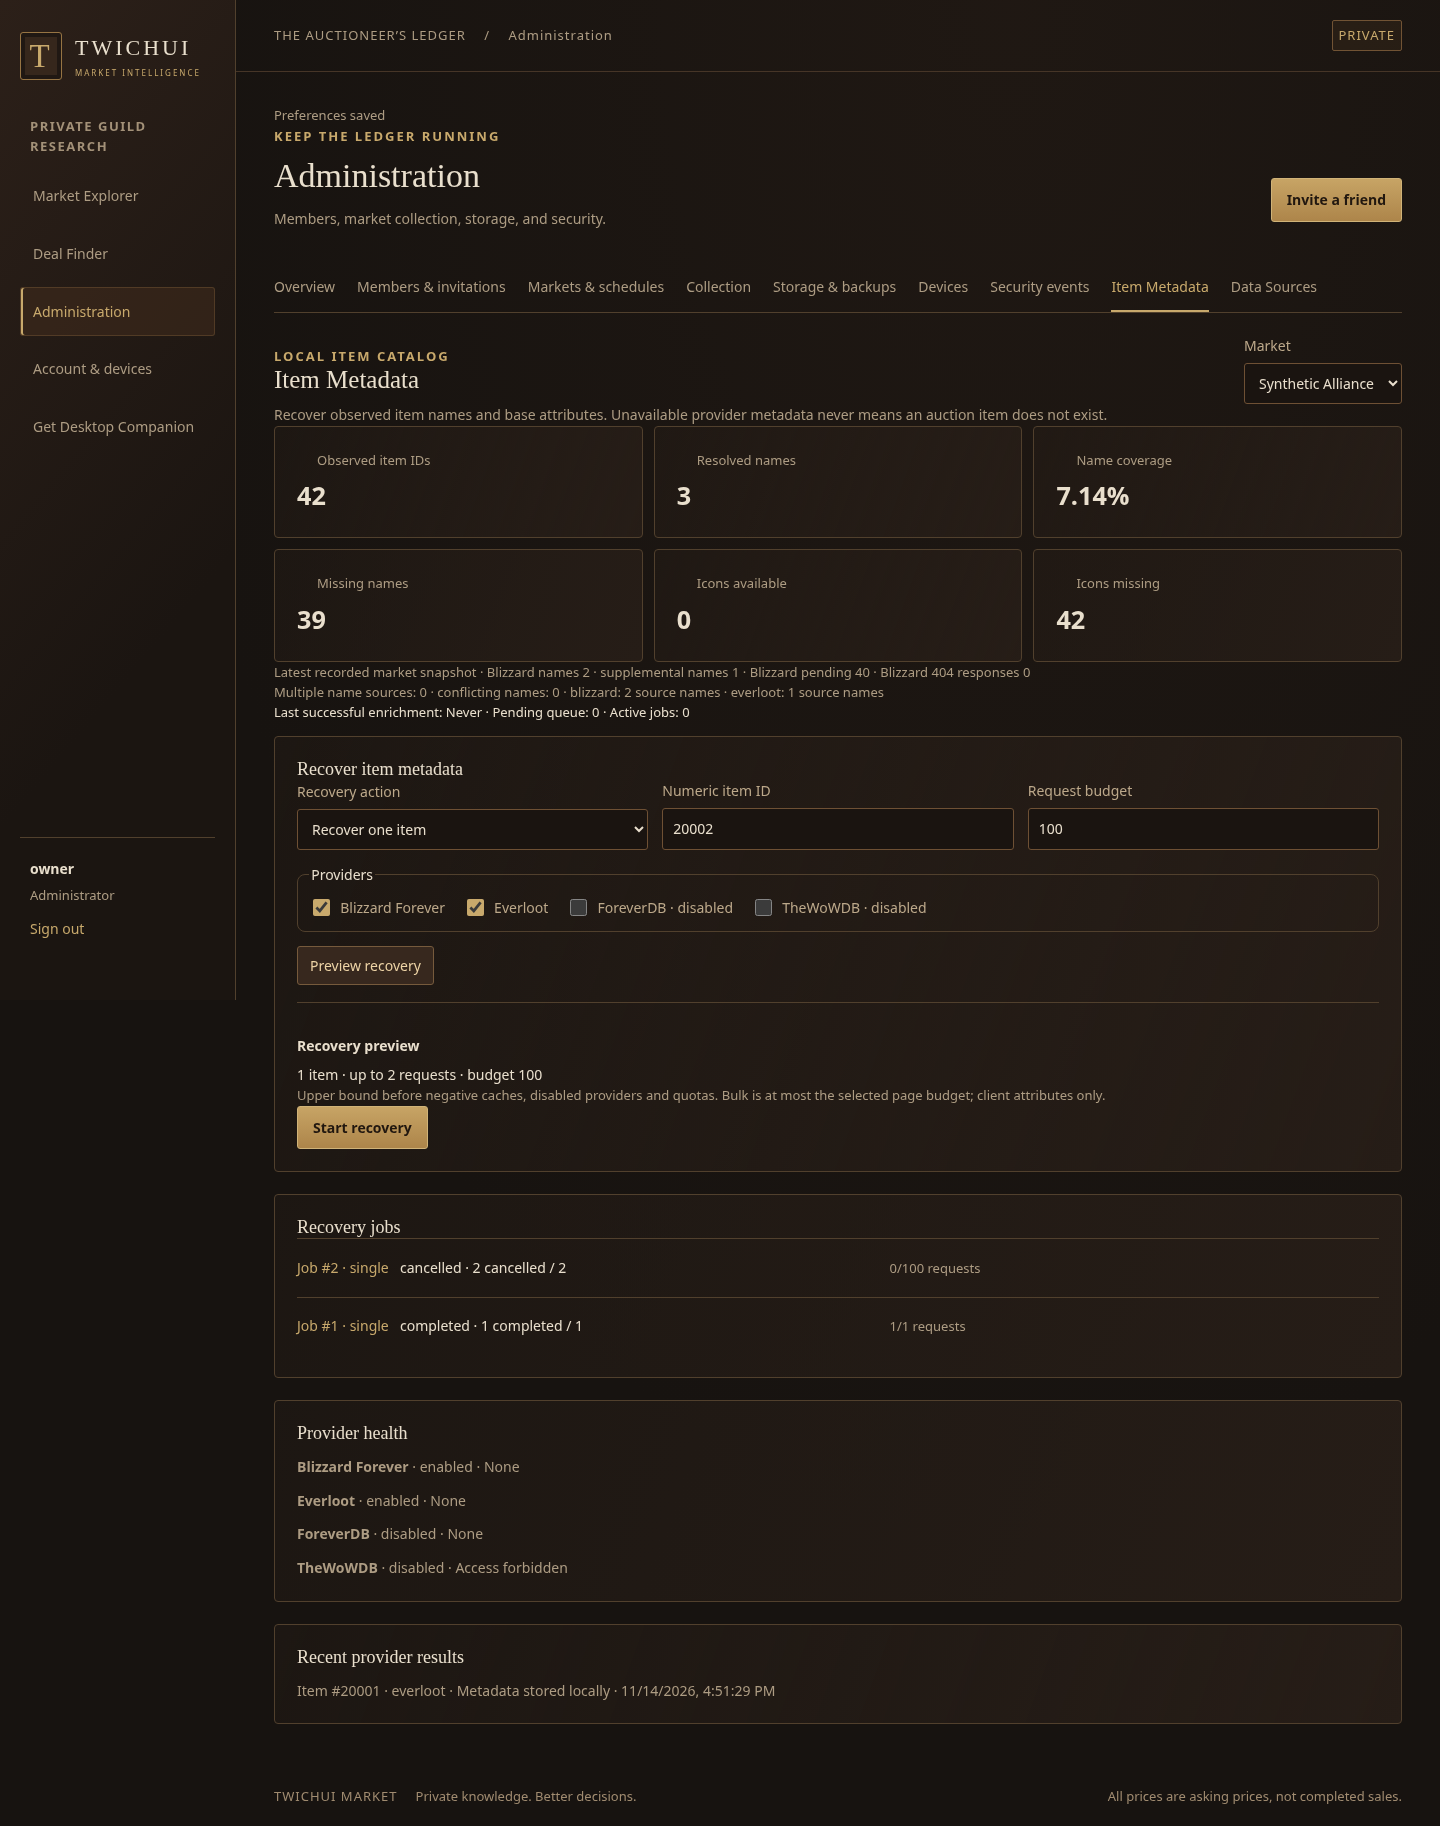
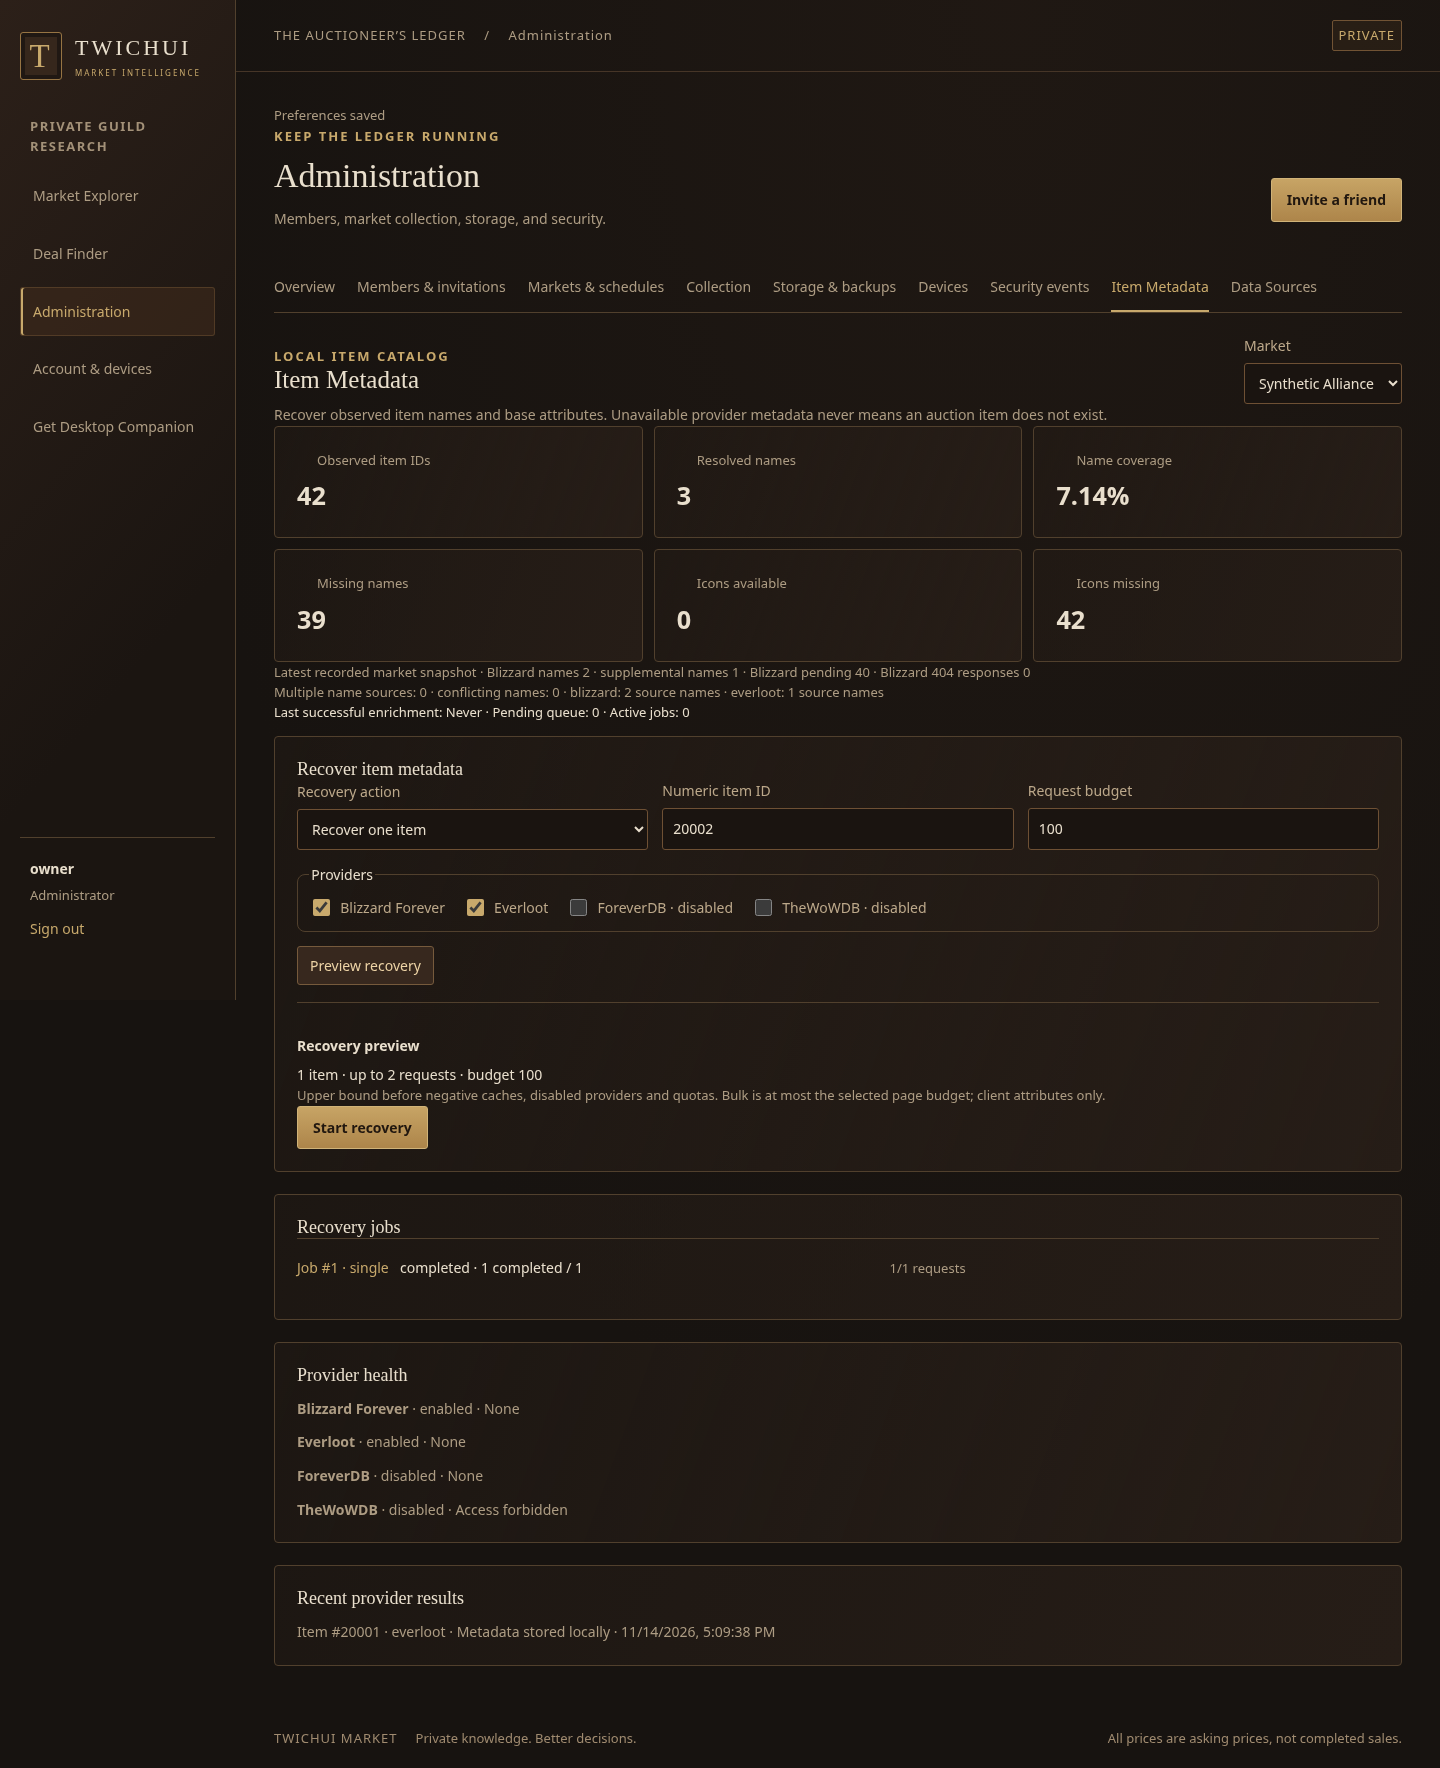
docs: finalize metadata recovery acceptance evidence and external integration gates

diff --git a/docs/item-metadata-recovery-progress.md b/docs/item-metadata-recovery-progress.md
@@ -43,3 +43,37 @@ Companion baseline migration is 0013. Use a metadata-specific revision identifie
 - Rollback-only benchmark: 5,000 observed fixture IDs, 500 client-record import 3.97s (~126/s); five warm handler medians: coverage 28.25ms, name search 9.33ms, Explorer 18.43ms; process peak RSS ~84.4MiB. These are synthetic handler measurements, not production coverage or p95.
 - First full local browser run: 17/20 pass; three failures traced to Docker-only `http://proxy` fixture/context assumptions, not metadata functionality. Bounded loopback opt-in and matching fixture origin are being added; production/browser auth behavior is unchanged.
 - Read-only integration check at `abe299c22639e9d067a2b8f0817ffb578e6e17cc` still has no schema conflicts. A simulated merge found a workflow append conflict; moving the metadata check ahead of the retained Companion check reconciles it on this branch without merging/rebasing or modifying Companion history.
+
+## M4 final independent acceptance — 2026-11-15 UTC (2026-11-14 Denver)
+
+- Functional checkpoint `90bc88f0c56185ce8d4e796b20fe6af32e7ea64b`: **301/301 PostgreSQL tests pass (146.28s)**, including **37 metadata recovery/security cases**. Both populated preservation/downgrade rehearsals pass again. The earlier full run crossed UTC midnight and exposed future-dated 10:00/12:00 sync fixtures; the fixtures now anchor to the prior day without changing product ingestion/pricing/sync behavior.
+- **50/50 frontend unit tests, TypeScript/Vite build, dependency audits and 20/20 actual Chromium workflows pass.** The complete browser run took 1.8 minutes; all metadata/admin/Explorer/Deals/account/preferences/Companion/touch workflows pass together. Earlier preference polling timeout passed focused and final complete reruns.
+- Nine final actual browser screenshots, byte hashes and dimensions are committed under `docs/evidence/metadata-recovery-screenshots`. They show synthetic database data and an empty secret form. Three axe scans and 390px overflow checks pass; no page errors or third-party metadata requests. Visual owner approval remains pending.
+- All providers have queued connection tests. Validated Everloot keys permit an explicit bounded increase up to 240/hour and 2,000/day; keyless ceilings/cooldowns remain enforced. The retained legacy operator command only queues durable jobs. Batch recovery also selects named items without basic attributes. Pending-name measurements do not double-subtract preserved names after a 404 refresh.
+- `144205d` isolates the CI-only keyring initialization from retained shared fixture steps. Direct smoke verifies this initialization creates a private ephemeral keyring without changing database row counts, then restores the previous ephemeral keyring. Source code and tests stay on the pinned baseline; no Desktop source was changed.
+- Final bounded rollback-only fixture: 500 client records / 3.42s (~146/s), 2.04 CPU seconds, 84.7MiB peak process RSS. Five warm handler medians: coverage 33.06ms, name search 16.35ms, Explorer 28.29ms. Same-dependency entry JS size is unchanged; administration grows ~15.3KiB, research ~1.1KiB and CSS ~2.3KiB uncompressed. These are synthetic measurements, never production coverage or p95.
+- Combined simulation evidence remains 299 complete PostgreSQL regressions against committed Companion `abe299c`, then 128 relevant PostgreSQL cases plus 15 operational/release gates against `027765a`. Latest committed head `cad6c8e9bb4ddcab8ae0f7b72f3a73c09f647366` changes private-beta fixtures/UI/workflows, not migration identities or existing security/v1 contract files. A simulated integration tree merges cleanly; no actual branch merge/rebase was performed.
+- Remote backend checkpoint `af0751c` passed run 43655431454; earlier website run 43654540502 passed. Current shared website run 43657170874 passes build/unit/audit/container startup/metadata-keyring setup/main fixtures, then fails because the newly added `web/e2e/seed-private-beta.py` is absent from the pinned head-only checkout. Native/private-beta helper/legacy-installer integration likewise needs the owner-reviewed combined source. This external CI dependency is not reported as passed or worked around by importing unrelated Companion release code. The PR links the final checks.
+
+## Delivery and exact follow-up
+
+[Acceptance packet](item-metadata-recovery-acceptance.md), [source research](item-metadata-recovery-providers.md), [coverage boundary](evidence/metadata-recovery-coverage.json), [operations/backup/migration/rollback](item-metadata-recovery-operations.md), [screenshots](evidence/metadata-recovery-screenshots/README.md) and [draft PR #2](https://github.com/Twich-Team/TwichUI-Market/pull/2) provide the reviewable result. Independent implementation/testing is complete; genuine provider coverage remains unmeasured.
+
+Owner-managed external steps: privately mount/back up the encryption keyring; enter actual provider keys in Data Sources; obtain permitted target-host responses and authorized ForeverDB schema evidence; measure a legitimate fixed current market-2 per-ID snapshot; review visuals; authorize combined-source integration/CI and separately any merge/deployment. No key should be sent in chat. No production/AMP/other-session action, collector start, release, migration or deployment was made in this task.
+
+## Feature commit history through implementation/CI checkpoint
+
+- [`9a7bad1`](https://github.com/Twich-Team/TwichUI-Market/commit/9a7bad1bfddfaa50cf6e138732e52e891817b675) docs: record isolated metadata recovery plan and baseline
+- [`cafa1be`](https://github.com/Twich-Team/TwichUI-Market/commit/cafa1be69a9744fb65c110bcd3723f61d8245ab0) feat: add versioned metadata catalog and secure bounded recovery workers
+- [`a828d25`](https://github.com/Twich-Team/TwichUI-Market/commit/a828d25f1a257f680d5868a60e8d7f4c5c2ed2ab) feat: integrate metadata administration local provenance and verification
+- [`b2a70dc`](https://github.com/Twich-Team/TwichUI-Market/commit/b2a70dc58693dfe4f092b9987b130ff6cca26869) test: support isolated localhost verification and reconcile CI ordering
+- [`f245a57`](https://github.com/Twich-Team/TwichUI-Market/commit/f245a5737679f360f054edf91fb891651518914f) fix: balance artwork requests and preserve clear unknown metadata
+- [`9aebe68`](https://github.com/Twich-Team/TwichUI-Market/commit/9aebe68ad7d08eddd40367aeef136d1fc262035f) ci: run Companion release gates when present in the checked out branch
+- [`daac794`](https://github.com/Twich-Team/TwichUI-Market/commit/daac794e767c2f9d049418911655c7085a646b10) test: enforce disposable database guards for metadata operations
+- [`cb320d0`](https://github.com/Twich-Team/TwichUI-Market/commit/cb320d060e1f5111e1c2b2a99bafd2744e5a7467) fix: reject repeated bulk pages and clear rolled back import results
+- [`af0751c`](https://github.com/Twich-Team/TwichUI-Market/commit/af0751cf42b123deede18533e0cdbba22e265afc) fix: keep metadata validation handler separate from Companion router registration
+- [`7549570`](https://github.com/Twich-Team/TwichUI-Market/commit/75495704a94cbc4473daa046aa1853bf0bc4ac88) docs: preserve actual metadata recovery screenshots and performance evidence
+- [`e4c38e4`](https://github.com/Twich-Team/TwichUI-Market/commit/e4c38e43ccd7574cad2624d5dd0d56a06f8db62c) feat: finish provider connection controls and bounded keyed recovery budgets
+- [`517c48d`](https://github.com/Twich-Team/TwichUI-Market/commit/517c48da93423a555ea8cb55529dfcca570c0a52) fix: route legacy recovery through jobs and include missing base attributes
+- [`90bc88f`](https://github.com/Twich-Team/TwichUI-Market/commit/90bc88f0c56185ce8d4e796b20fe6af32e7ea64b) fix: count preserved names correctly and make sync fixtures safe after midnight
+- [`144205d`](https://github.com/Twich-Team/TwichUI-Market/commit/144205db5a843f315980e4e15b1ad2c9194fa8da) ci: isolate metadata fixture setup from concurrent Companion seed steps

diff --git a/docs/item-metadata-recovery-acceptance.md b/docs/item-metadata-recovery-acceptance.md
@@ -13,12 +13,12 @@ Data Sources provides configuration, all-provider connection tests, health/coold
 ## Verification evidence
 
 - Isolated PostgreSQL 17.12 `market_test`, private Unix socket, TCP disabled; Python 3.12 and Node 24 locked dependency setup verified. No real provider credentials or production settings supplied.
-- Full feature PostgreSQL checkpoints passed 284 then 293 tests. Final focused recovery suite covers normalization, placeholders, wrong IDs/editions/builds, duplicate/bulk pages, precedence/conflicts, cache/304/401/403/404/429/date Retry-After, timeouts, budgets, crash recovery, concurrency, controls, credentials/expiry/rotation/authorization/redaction and all-provider tests. Exact latest counts are in the progress ledger/CI.
+- Final complete feature PostgreSQL suite: **301 tests pass in 146.28 seconds**, including 37 metadata recovery/security cases. The recovery suite covers normalization, placeholders, wrong IDs/editions/builds, duplicate/bulk pages, precedence/conflicts, cache/304/401/403/404/429/date Retry-After, timeouts, budgets, crash recovery, concurrency, controls, credentials/expiry/rotation/authorization/redaction and all-provider tests. Exact latest counts are in the progress ledger/CI.
 - A simulated combined tree of the metadata code and committed Companion head `abe299c22639e9d067a2b8f0817ffb578e6e17cc` passed **299 PostgreSQL tests** and both metadata/Companion migration preservation rehearsals; six Companion release gates passed. No branch was merged.
 - Newer Companion head `027765aaf5e7bcc20f77753c4a22d87d1977f97a` added private-beta routers/publishing tests but no schema/security-scope/v1-contract changes. Combined relevant metadata/auth/sync/release/private-beta suites passed **128 PostgreSQL tests** plus **15 operational/release gate tests**. Registration conflicts were reconciled only by moving this feature's exception handler, without importing private-beta code into the feature branch.
 - Actual migration rehearsals preserve nonempty synthetic asking-price/history rows, names, users, credentials and preferences, guard populated metadata/Companion downgrades, and pass empty downgrade/re-upgrade/schema-drift checks.
 - Frontend TypeScript/Vite build and **50 unit tests** pass. Dependency audits report no known vulnerabilities with pinned cryptography 50.0.0. Existing ECharts large-chunk build warning remains.
-- Actual built-frontend Chromium: all 20 scenarios have passed across the full run and focused reruns. The full loopback run passed 19/20; an existing preference autosave polling case timed out, then passed immediately on focused rerun. This is reported as a local timing flake, not a 20/20 single-run claim. Remote website CI is authoritative for its clean fixture run. New metadata workflow passes actual APIs, three axe WCAG A/AA scans, 390px overflow checks, key-form clearing/CSRF/non-disclosure, job controls and local recovered-name/provenance display. No page errors or third-party metadata requests.
+- Actual final built-frontend Chromium: **20/20 workflows pass in one complete run (1.8 minutes)**. An earlier preference autosave polling timeout passed on focused rerun and again in this final complete run. The new metadata workflow passes actual APIs, three axe WCAG A/AA scans, 390px overflow checks, all-provider connection controls, key-form clearing/CSRF/non-disclosure, job controls and local recovered-name/provenance display. No page errors or third-party metadata requests.
 - [Nine actual screenshots and provenance](evidence/metadata-recovery-screenshots/README.md) cover every requested view plus mobile. Captures contain synthetic data and an empty secret form. They were inspected for text, alignment and consistency. Owner visual approval is pending.
 - [Rollback-only performance fixture](evidence/metadata-recovery-performance.json): 5,000 observed item IDs; 500-record import in 3.42s (~146 records/s), 2.04 CPU seconds and 84.7MiB process peak RSS. Five warm handler medians: coverage 33.06ms, name search 16.35ms, Explorer 28.29ms. These are synthetic handler measurements, not production p95 or provider latency. The query planner chose a sequential scan on the small fixture; the GIN index exists and migration drift checks verify its definition.
 - [Same-dependency bundle comparison](evidence/metadata-recovery-bundle.json): entry JS unchanged at 270,663 bytes; research grows about 1.1KiB, administration about 15.3KiB and CSS about 2.3KiB before compression. No frontend dependency/framework was added. API process point observation during browser workloads was ~224.5MiB RSS / 3.2% CPU over ~10 minutes; this is not a peak guarantee. Worker requests are tested against persistent budgets; no live-provider request-rate measurements are claimed.
@@ -28,6 +28,12 @@ Data Sources provides configuration, all-provider connection tests, health/coold
 [Provider research](item-metadata-recovery-providers.md) records the documented contracts, terms, edition/build distinctions, maintained client-extraction candidates and actual Cloud proxy failures. Everloot supplies separate player-agreed card names and unconfirmed paged client attributes; the latter never counts as a recovered name. No external prices, executable tooltips, bulk Blizzard artwork or unrelated-edition names are imported. ForeverDB remains a conservative minimal-envelope adapter pending approved access and a genuine authorized schema sample. Optional TheWoWDB beta data stays disabled until access is verified.
 
 The latest legitimate repository coverage receipt is **historical market 1/snapshot 12, 4,978 IDs / 1,191 Blizzard names / 3,787 unresolved (23.93%)**, at 2026-11-14 14:08 UTC. It is not a current market-2 measurement. Aggregate repository evidence lacks the complete per-ID population needed to calculate fresh supplemental overlap, conflicts, icon/attribute gains or remaining exact item categories. No genuine coverage improvement or 90% result is claimed. Provider API probes were denied by the Cloud network proxy; that denial is not misreported as a provider item response. Browser/benchmark fixtures prove functionality only.
+
+## Remote CI and concurrent integration boundary
+
+Backend CI at exact code checkpoint `af0751cf42b123deede18533e0cdbba22e265afc` passed [run 43655431454](https://github.com/Twich-Team/TwichUI-Market/actions/runs/43655431454). Website CI passed the earlier implemented UI checkpoint [run 43654540502](https://github.com/Twich-Team/TwichUI-Market/actions/runs/43654540502). Later runs were superseded/cancelled by pushed checkpoints or blocked by concurrent workflow merge conflicts. Final PR checks are linked directly on the PR; pending/failed native/private-beta integration checks are not represented as passed.
+
+The integration branch advanced to `cad6c8e9bb4ddcab8ae0f7b72f3a73c09f647366` with private-beta website fixtures and workflow steps. The workflow definitions now execute a head-only checkout while expecting newer private-beta fixture/helper files and an archived legacy installer absent from the pinned metadata head. Metadata fixture initialization and artifact upload were placed before retained shared steps so simulated integration remains conflict-free, without copying Companion release source/history into this feature. Its complete native/private-beta CI must run against the owner-reviewed combined integration tree. No new Windows acceptance or private-beta publication approval is claimed here. This is a separate integration gate; the local metadata/backend/frontend/browser checks above are complete.
 
 ## Required owner follow-up
 
